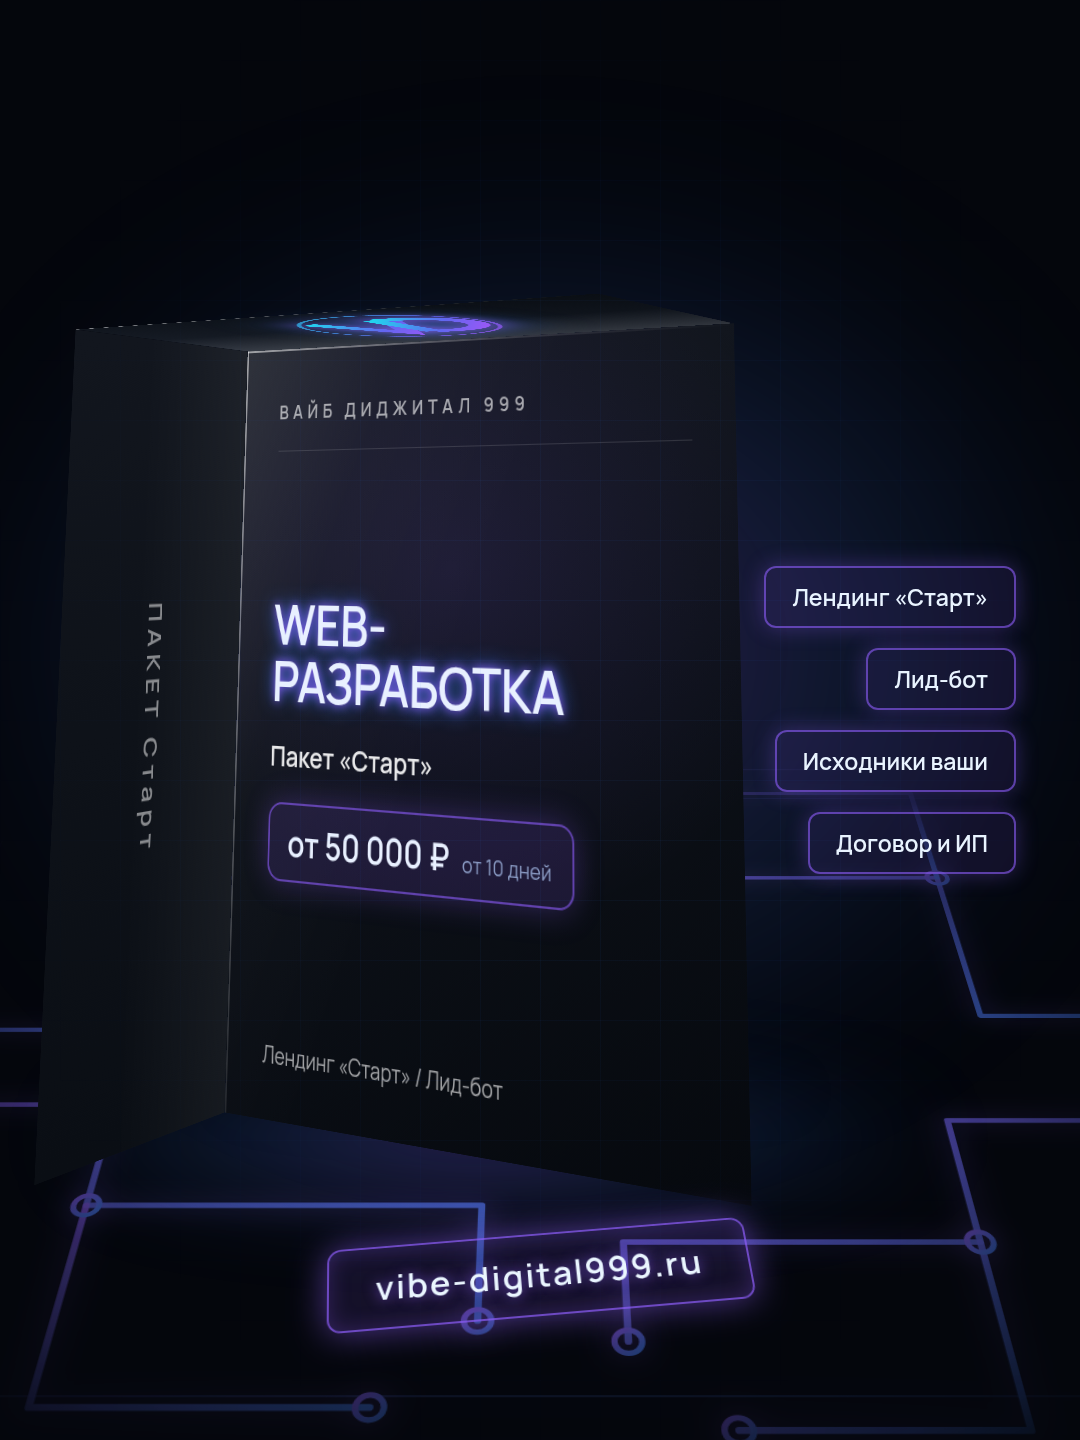
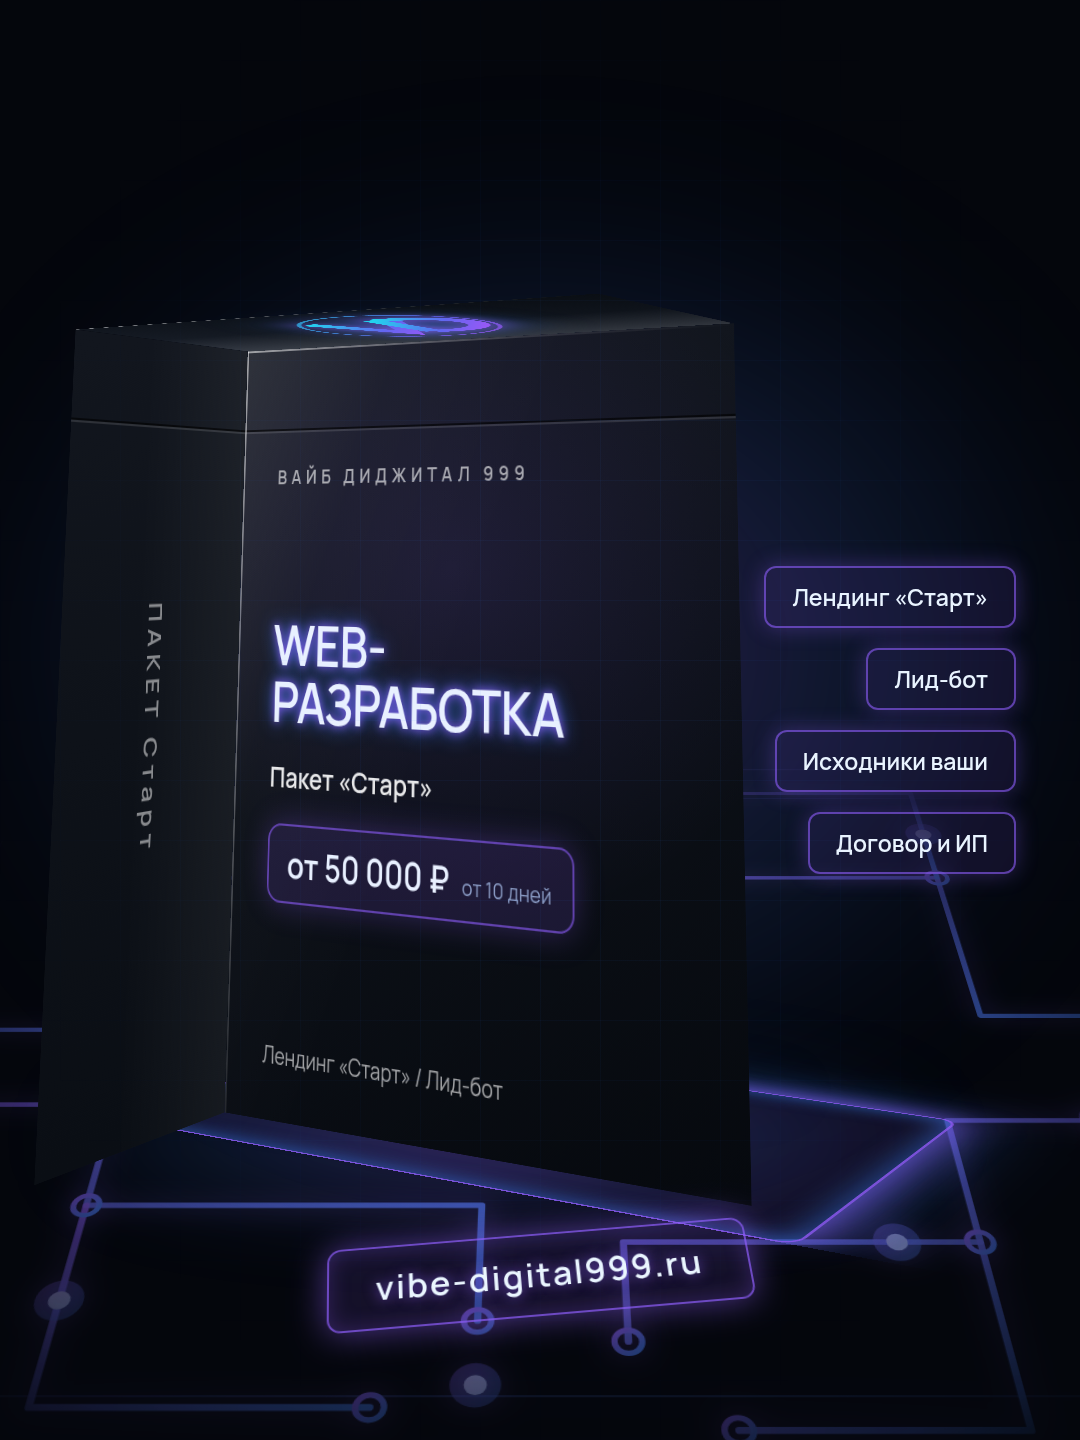
Шов откидного колпака и неоновый подиум под коробкой
Шов опоясывает коробку: одна переменная высоты на лицо и бок.
Подиум сделан нижней гранью коробки, а не отдельным прямоугольником —
так он лежит под дном при любом развороте.

Импульсы на дорожках статичные: в скриншоте анимации не видно,
это отдельная задача с другим форматом вывода.

Claude-Session: https://claude.ai/code/session_01ELgwZhZjs3zH5Yv9y5TfEh

diff --git a/marketing/paket-korobka.js b/marketing/paket-korobka.js
@@ -103,6 +103,15 @@ const PLATA = (id) => {
     'M620 180 H900',
     'M700 880 H820',
   ];
+  /* ИМПУЛЬСЫ — яркие точки на дорожках. В задании просили бегущий ток
+     анимацией; в статичной картинке анимации не видно, скриншот берёт
+     один кадр. Поэтому импульсы расставлены как остановленный кадр:
+     несколько точек в разных местах разводки. Нужна настоящая беготня —
+     это другой формат вывода, видео или GIF, и другая задача. */
+  const impulsy = [
+    [300, 420], [520, 180], [360, 860], [700, 940],
+    [1180, 220], [1050, 800], [820, 190], [1260, 660],
+  ];
   const ploshchadki = [
     [300, 300], [620, 180], [360, 760], [700, 880],
     [1180, 300], [900, 190], [1120, 800], [820, 900],
@@ -133,6 +142,8 @@ const PLATA = (id) => {
             stroke-linecap="round" stroke-linejoin="round" opacity=".9"/>`).join('\n      ')}
       ${ploshchadki.map(([x, y]) => `<circle cx="${x}" cy="${y}" r="11"
             fill="none" stroke="url(#pl${id})" stroke-width="5"/>`).join('\n      ')}
+      ${impulsy.map(([x, y]) => `<circle cx="${x}" cy="${y}" r="9" fill="#EAFBFF"/>
+      <circle cx="${x}" cy="${y}" r="20" fill="url(#pl${id})" opacity=".45"/>`).join('\n      ')}
     </g>
   </svg>`;
 };
@@ -159,6 +170,10 @@ ${fontCss}
     --acc:${nastr.acc}; --acc2:${nastr.acc2};
     --shir:${SHIR}px; --vys:${VYS}px; --glub:${GLUB}px;
     --pol:${GLUB / 2}px;              /* половина глубины */
+    /* Высота шва от верхнего ребра. Одна переменная на лицо и бок —
+       иначе линии на соседних гранях встанут на разной высоте
+       и колпак развалится. */
+    --shov:84px;
   }
 
   body{width:${W}px;height:${H}px;background:var(--ink);color:var(--white);
@@ -226,12 +241,26 @@ ${fontCss}
   .gran{position:absolute;
     background:linear-gradient(155deg,#161A22 0%,#0C1017 55%,#070A10 100%)}
 
+  /* ШОВ ОТКИДНОГО КОЛПАКА. Тёмная прорезь и светлый блик под ней —
+     так читается стык двух панелей. Рисуется фоновым градиентом,
+     а не элементом: у граней уже заняты оба псевдоэлемента бликами
+     на рёбрах, а фоновый слой ещё и не мешает раскладке текста.
+
+     Высота одна и та же на лице и на боку — грани начинаются от одного
+     верхнего ребра, поэтому линия опоясывает коробку без ступеньки. */
   /* Лицо */
   .box-front{width:var(--shir);height:var(--vys);left:0;top:0;
     transform:translateZ(var(--pol));
-    padding:52px 44px 44px;display:flex;flex-direction:column;
+    /* Отступ сверху = шов плюс воздух: надпись студии стоит НА колпаке,
+       под линией сгиба, а не поперёк неё. */
+    padding:calc(var(--shov) + 34px) 44px 44px;display:flex;flex-direction:column;
     /* Глянец: широкая мягкая полоса через грань. */
     background:
+      linear-gradient(180deg,
+        transparent 0 calc(var(--shov) - 2px),
+        rgba(0,0,0,.62) calc(var(--shov) - 2px) var(--shov),
+        rgba(255,255,255,.12) var(--shov) calc(var(--shov) + 2px),
+        transparent calc(var(--shov) + 2px)),
       linear-gradient(112deg,
         rgba(255,255,255,.10) 0%,
         rgba(255,255,255,.02) 22%,
@@ -245,6 +274,11 @@ ${fontCss}
     transform-origin:left center;
     transform:translateZ(var(--pol)) rotateY(-90deg);
     background:
+      linear-gradient(180deg,
+        transparent 0 calc(var(--shov) - 2px),
+        rgba(0,0,0,.62) calc(var(--shov) - 2px) var(--shov),
+        rgba(255,255,255,.12) var(--shov) calc(var(--shov) + 2px),
+        transparent calc(var(--shov) + 2px)),
       linear-gradient(90deg, rgba(255,255,255,.05), transparent 60%),
       linear-gradient(180deg,#12161E 0%,#0A0E14 100%);
     display:flex;align-items:center;justify-content:center}
@@ -275,6 +309,24 @@ ${fontCss}
     filter:drop-shadow(0 0 18px color-mix(in srgb, var(--acc) 85%, transparent))
            drop-shadow(0 0 34px color-mix(in srgb, var(--acc2) 60%, transparent))}
 
+  /* НЕОНОВЫЙ ПОДИУМ — это нижняя грань коробки, а не отдельный
+     прямоугольник на полу. Так он лежит ровно под дном при любом
+     развороте: отдельный элемент пришлось бы совмещать вручную,
+     и он разъезжался бы при каждой правке угла. */
+  /* Рамка ШИРЕ дна на 70px с каждой стороны: ровно по дну её не видно —
+     коробка её закрывает. Вынос вперёд даёт сдвиг translateY ДО поворота:
+     после rotateX он превращается в сдвиг по плоскости пола. */
+  .box-bottom{width:calc(var(--shir) + 140px);height:calc(var(--glub) + 140px);
+    left:-70px;top:100%;
+    transform-origin:top center;
+    transform:translateZ(var(--pol)) rotateX(-90deg) translateY(-70px);
+    background:color-mix(in srgb, var(--acc) 10%, transparent);
+    border:3px solid color-mix(in srgb, var(--acc) 85%, transparent);
+    border-radius:20px;
+    box-shadow:0 0 60px color-mix(in srgb, var(--acc) 85%, transparent),
+               0 0 120px color-mix(in srgb, var(--acc2) 55%, transparent),
+               inset 0 0 44px color-mix(in srgb, var(--acc2) 60%, transparent)}
+
   /* Блики на рёбрах: тонкие светлые полосы по стыкам граней.
      Именно они читаются как глянцевый пластик. */
   .box-front::before{content:'';position:absolute;left:0;top:0;
@@ -297,8 +349,7 @@ ${fontCss}
   /* Полоса крышки: на референсе у коробки виден шов, и надпись студии
      стоит НА крышке, а не на лице. Повторяем швом поперёк лица. */
   .marka{font-size:19px;font-weight:800;letter-spacing:.3em;
-    color:rgba(255,255,255,.62);padding-bottom:26px;
-    border-bottom:1px solid rgba(255,255,255,.13)}
+    color:rgba(255,255,255,.62)}
 
   .glavnoe{margin:auto 0;display:flex;flex-direction:column;gap:26px}
 
@@ -345,6 +396,7 @@ ${fontCss}
     <div class="plata">${PLATA(p.id)}</div>
     <div class="box-scene">
     <div class="box">
+      <div class="gran box-bottom"></div>
       <div class="gran box-left"><span>ПАКЕТ ${p.nazvanie.replace(/[«»]/g, '')}</span></div>
       <div class="gran box-top">${LOGO(p.id)}</div>
       <div class="gran box-front">

diff --git a/TASKS.md b/TASKS.md
@@ -3528,3 +3528,36 @@ GreenSock). Проверено открытием страниц, а не пои
 
 - [ ] Посмотреть три коробки. Логотип на крышке виден под острым углом
       и сплющивается — если нужен крупнее, это одно число.
+
+### 13 августа, дополнение — шов колпака и неоновый подиум
+
+**Сделано:**
+
+- [x] `      ` **Шов откидного колпака** — тёмная прорезь со светлым
+      бликом под ней, опоясывает коробку: одна и та же высота
+      от верхнего ребра на лице и на боку. Высота вынесена переменной
+      `--shov`: две отдельные цифры разъехались бы, и колпак развалился.
+      Рисуется фоновым слоем, а не элементом, — у граней оба
+      псевдоэлемента заняты бликами на рёбрах.
+- [x] `      ` Надпись студии сдвинута под шов, дублирующая линия
+      под ней убрана.
+- [x] `      ` **Неоновый подиум** — это НИЖНЯЯ ГРАНЬ коробки, а не
+      отдельный прямоугольник на полу: так он лежит ровно под дном
+      при любом развороте. Отдельный элемент пришлось бы совмещать
+      руками и он разъезжался бы при каждой правке угла. Рамка шире
+      дна на 70px с каждой стороны — ровно по дну её не видно,
+      коробка закрывает.
+- [x] `      ` Импульсы на дорожках платы — яркие точки со свечением.
+
+**Про анимацию — сказано владелице прямо.** В задании просили бегущий
+по дорожкам ток. **В статичной картинке анимации не видно:** скриншот
+берёт один кадр, и на нём анимированный градиент выглядит как обычный.
+Импульсы расставлены как остановленный кадр — несколько точек в разных
+местах разводки. Настоящая беготня — это другой формат вывода, видео
+или GIF, и отдельная работа. Для сторис может окупиться, для карточки
+товара в Яндекс Бизнесе не нужна: там статичная картинка.
+
+**Ждём от Гульнары:**
+
+- [ ] Решить, нужна ли анимированная версия для сторис. Это видео,
+      а не картинка, и делается отдельно.
